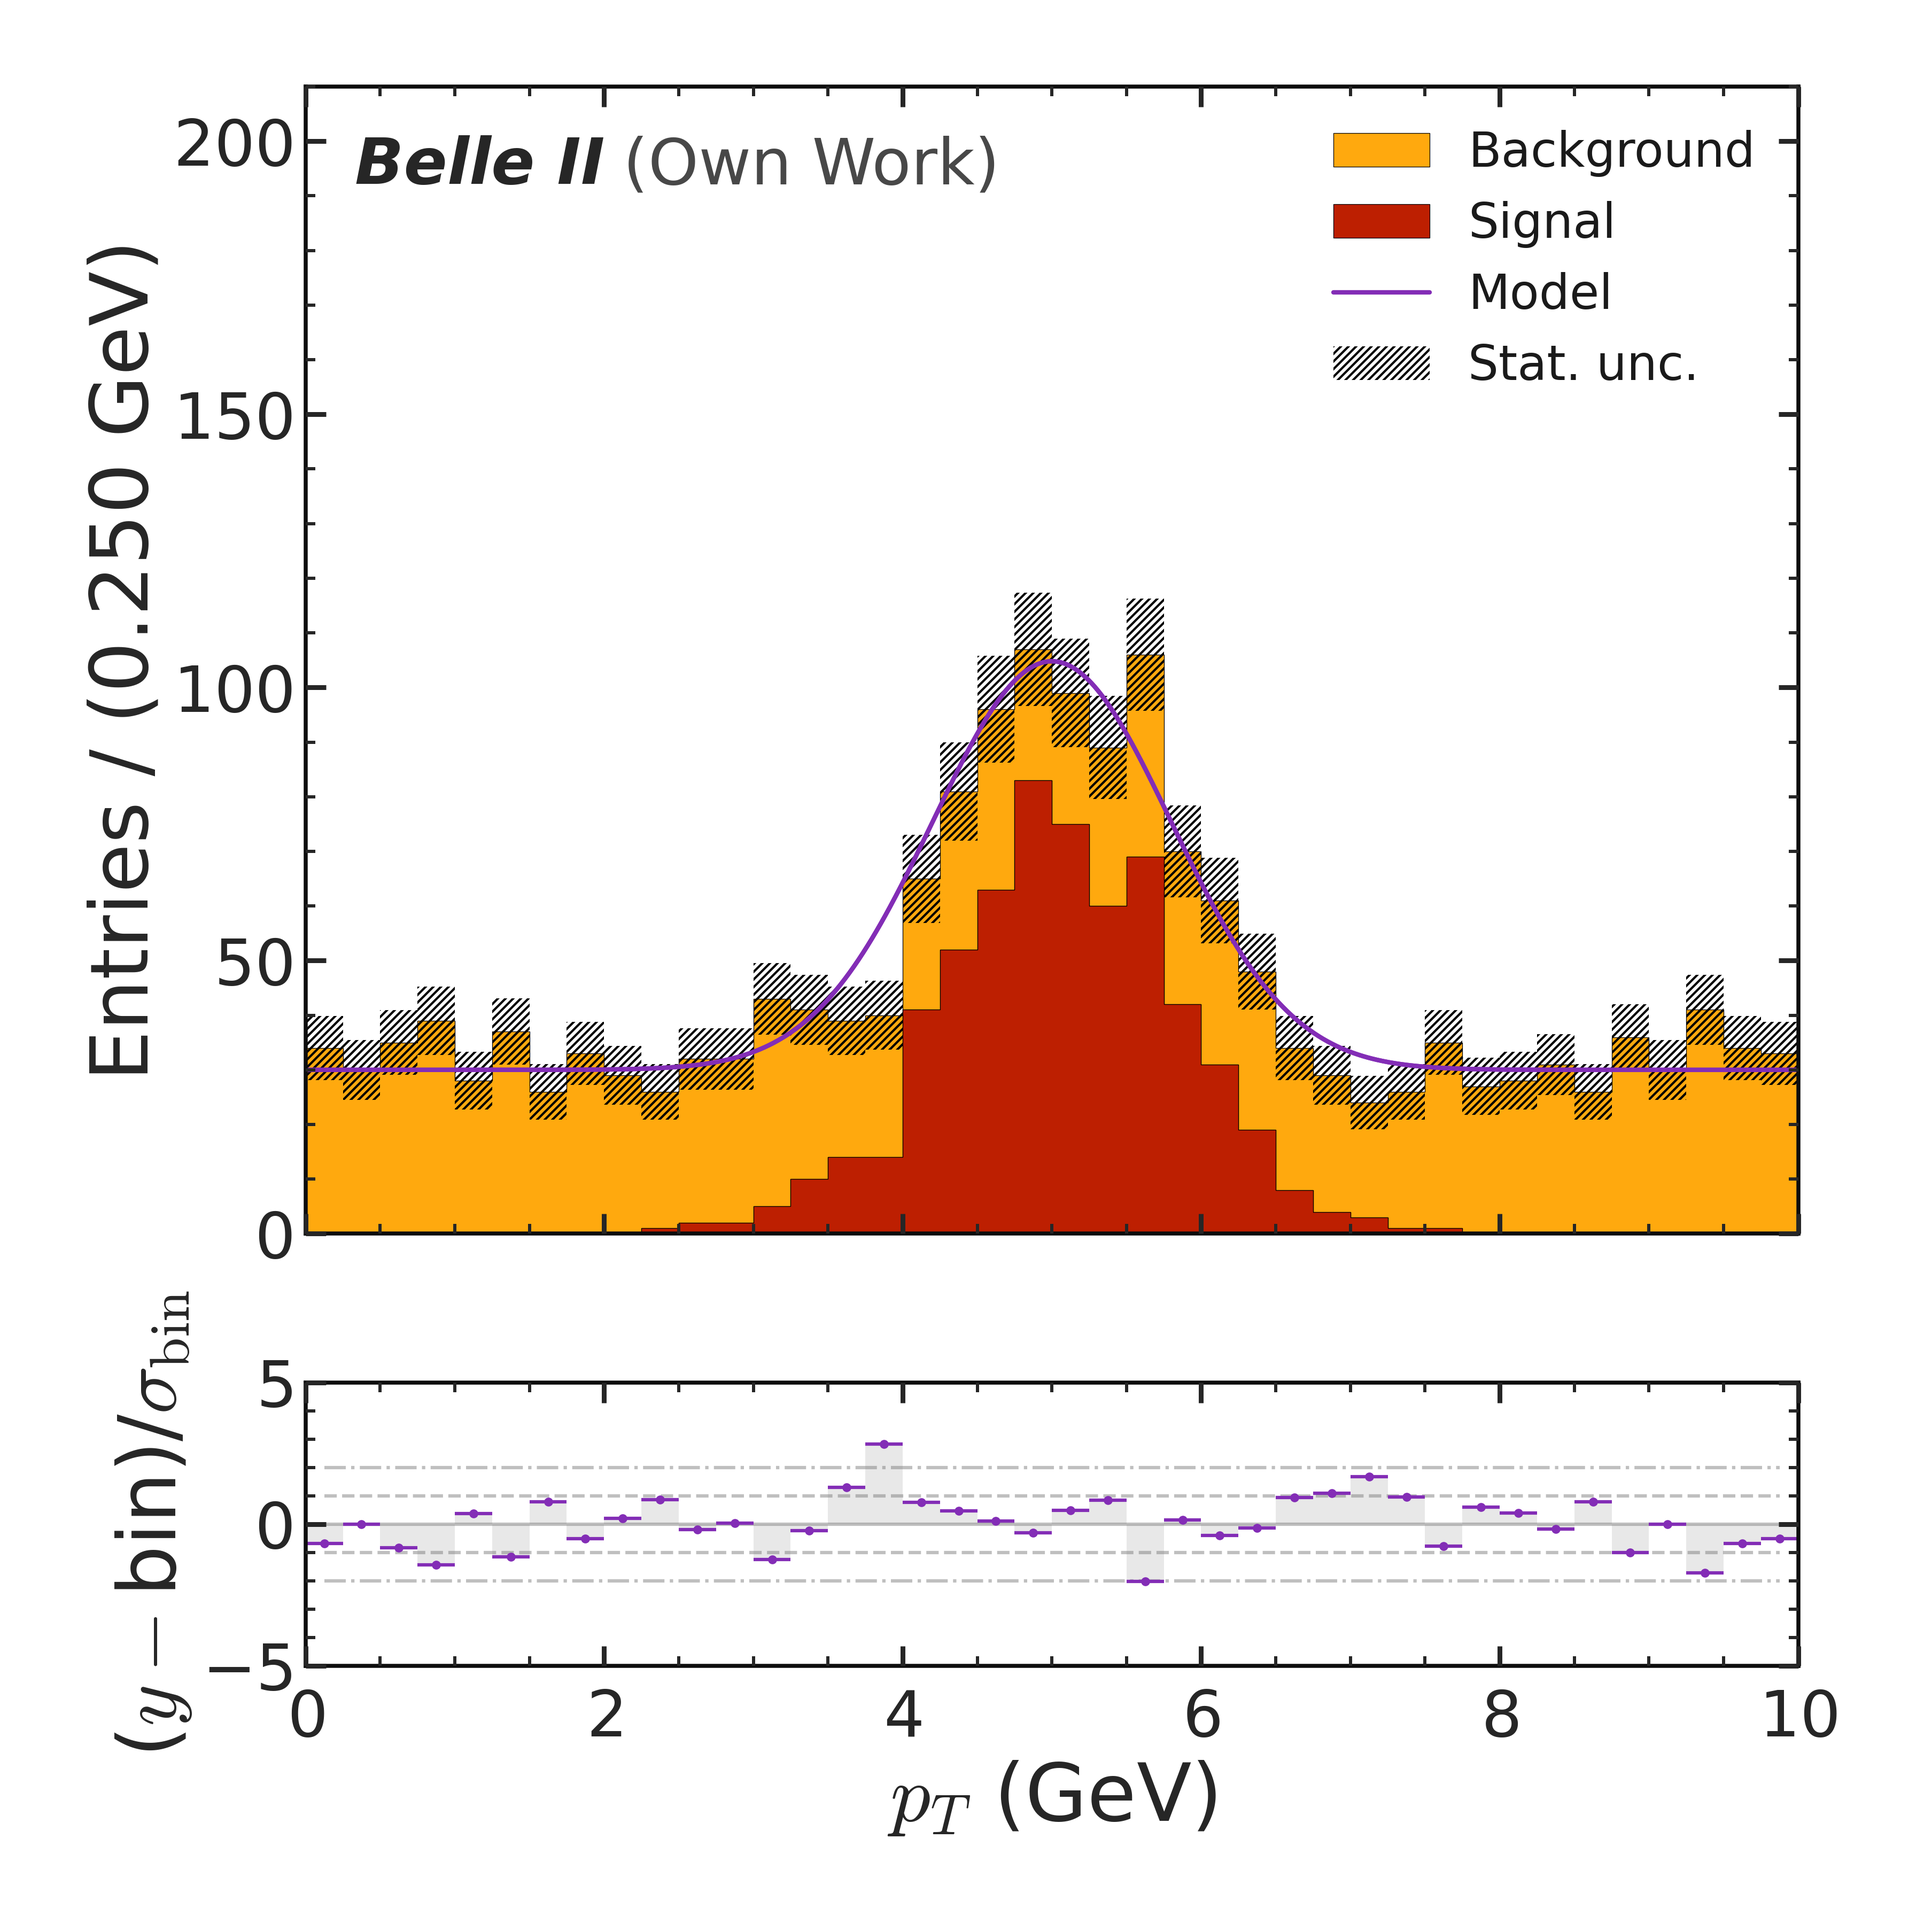
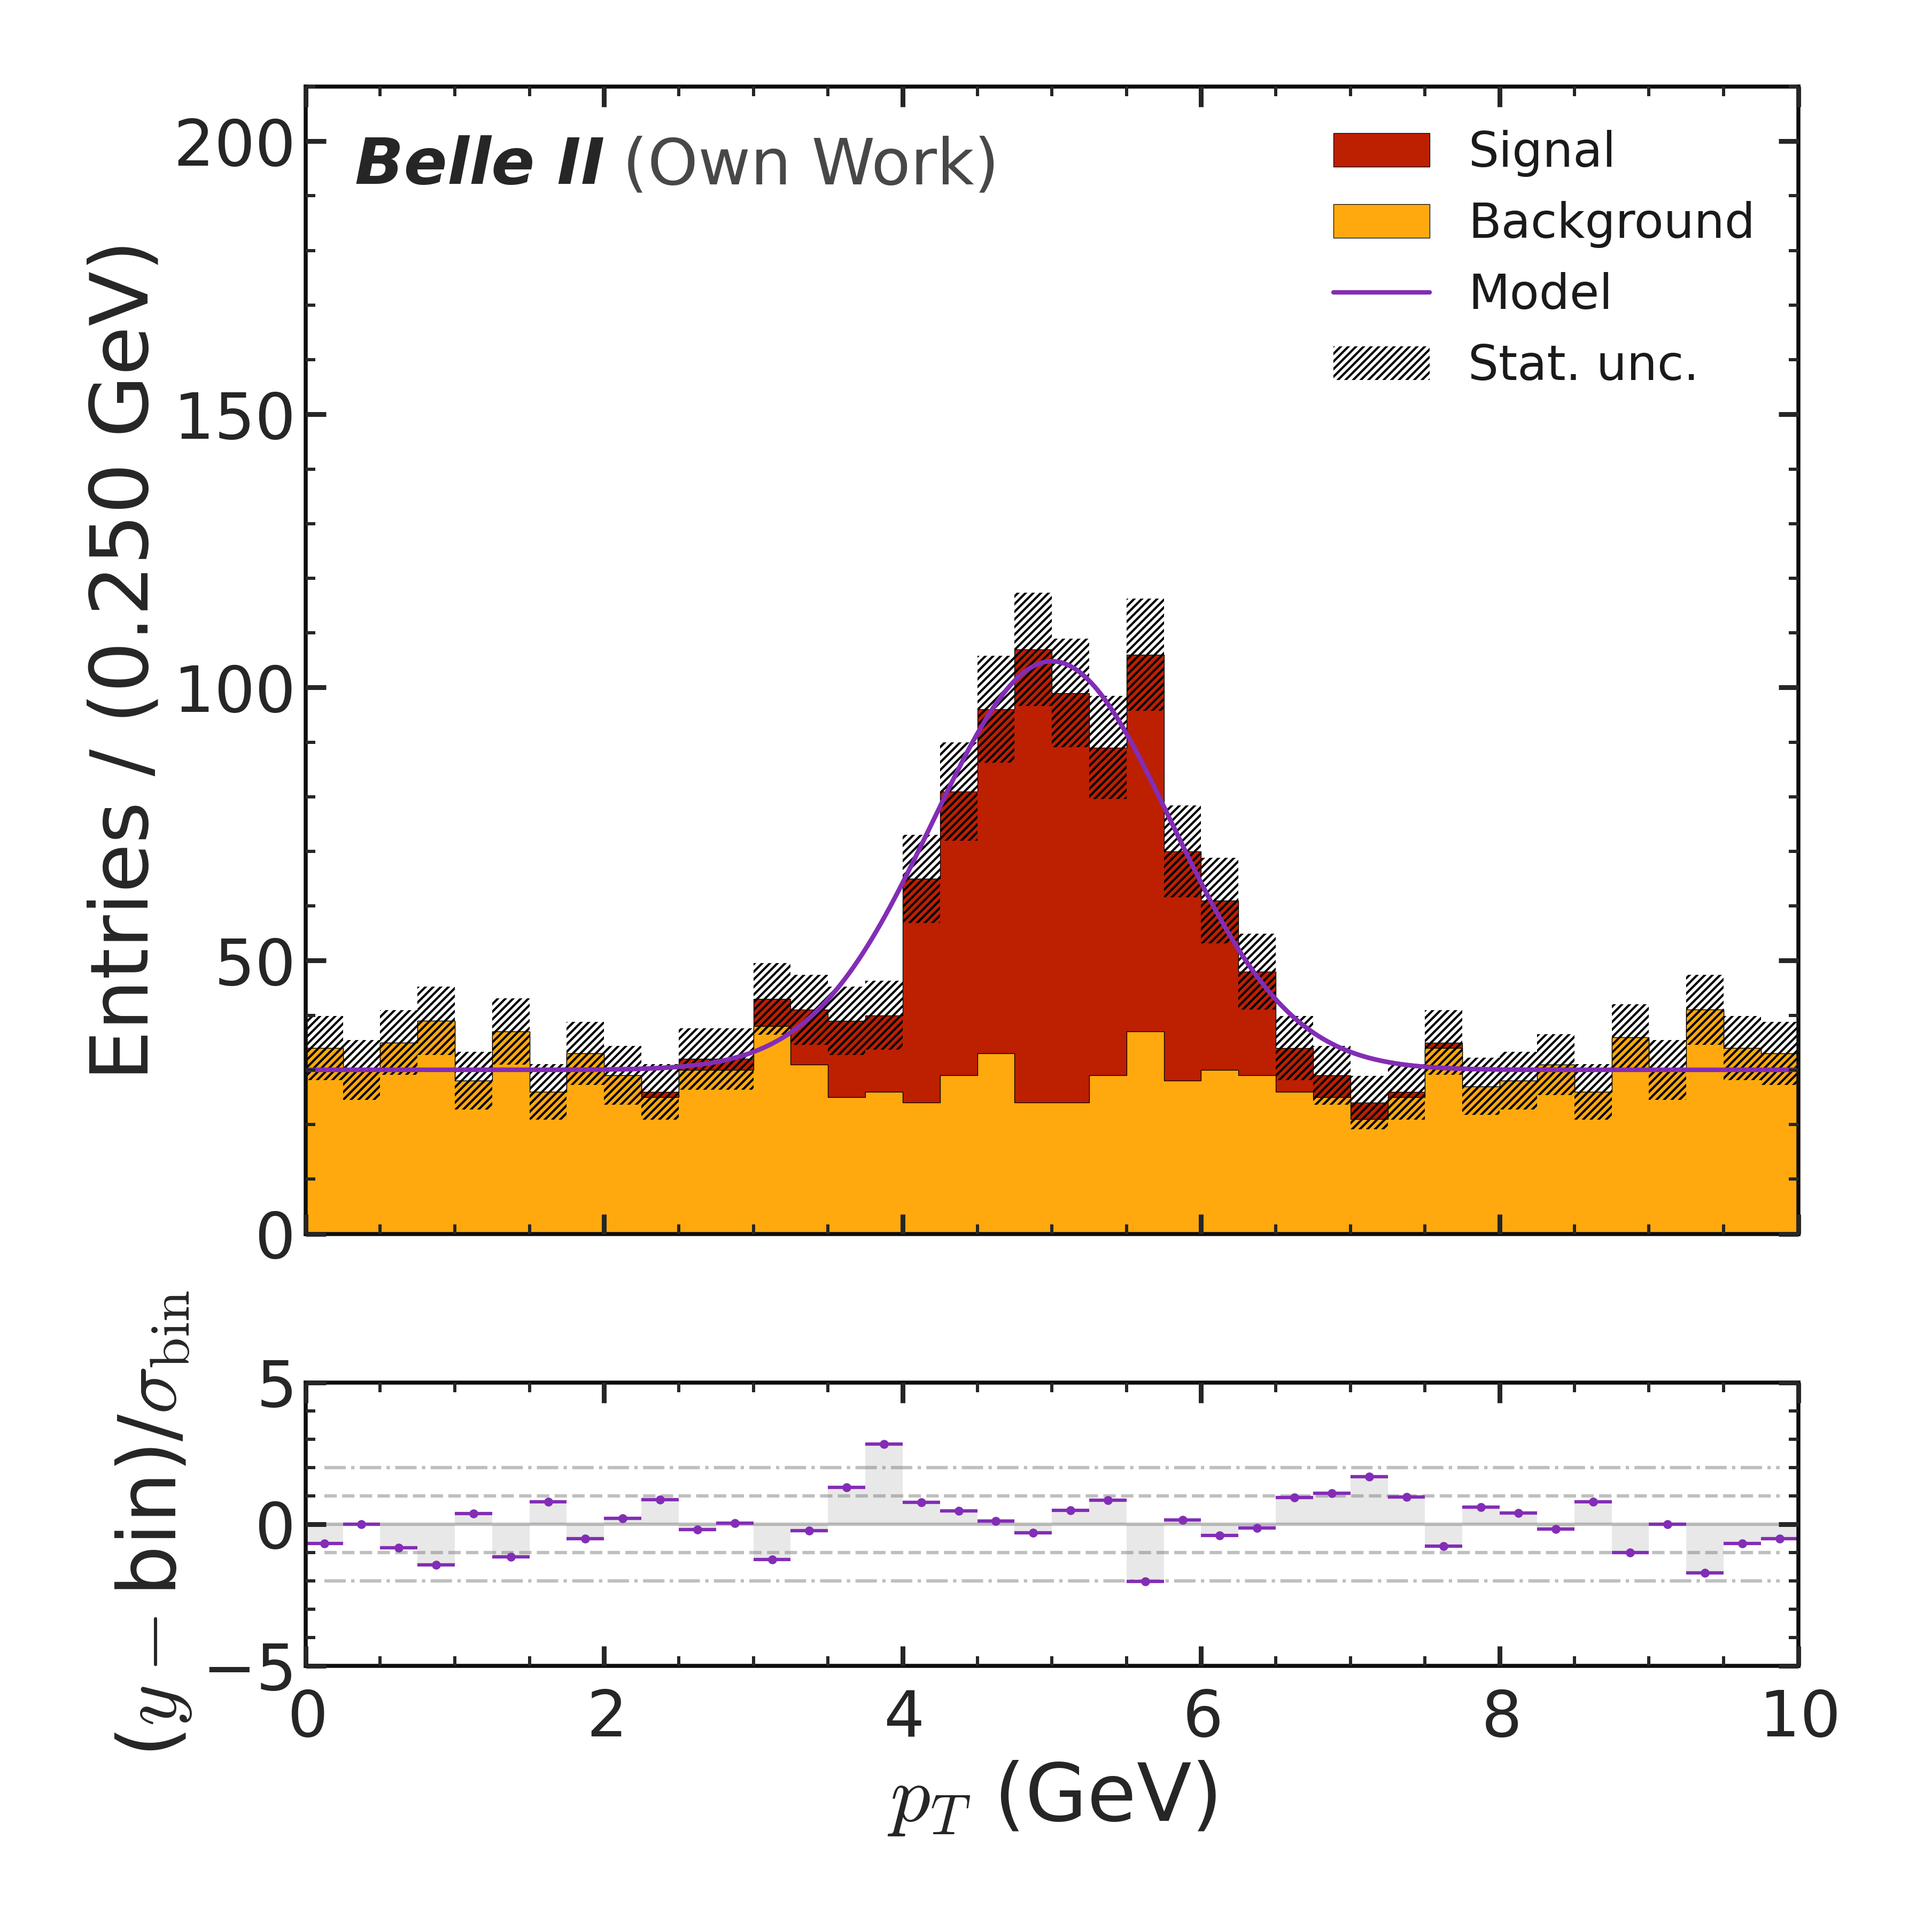
Fix workflow_demo.py: signal was stacking below background
The signal entry was added as a plain type="entry" (default), so
plot_stacked() stacked it in insertion order -- and it was added
before background, putting it at the *bottom* of the stack. PR #11's
"signal always closes the stack on top" guarantee only applies to
entries marked type="signal"; this one never used it.

Switch to type="signal" (matching examples/histogram_with_pull.py's
convention) and drop the now-redundant explicit color= on it, since a
lone signal entry is always forced to the palette's reserved red
regardless of what color= says.

Changed region(s): [[0.3422, 0.3422, 0.7467, 0.6533], [0.7778, 0.0622, 0.9022, 0.1244], [0.6844, 0.0622, 0.7467, 0.1244]]

diff --git a/examples/workflow_demo.py b/examples/workflow_demo.py
@@ -67,7 +67,6 @@ def _build_stacked_pull_plotter(data: dict[str, np.ndarray]) -> HistogramPlotter
 
     hist = Histogram()
     hist.binning = np.linspace(X_MIN, X_MAX, 41)
-    hist.add_entry(HistogramEntry(name="signal", latex_name="Signal", array=data["signal"], color=palette.signal))
     hist.add_entry(
         # background[1] (not [0]): amber for Petroff, blue for KIT -- both contrast
         # cleanly against the reserved signal red. background[0] is KIT's green,
@@ -76,6 +75,11 @@ def _build_stacked_pull_plotter(data: dict[str, np.ndarray]) -> HistogramPlotter
             name="background", latex_name="Background", array=data["background"], color=palette.background[1]
         )
     )
+    # type="signal" routes this into Histogram.signal instead of Histogram.entries, so
+    # plot_stacked() always closes the stack with it on top (at its true yield, in the
+    # palette's reserved signal red) regardless of add_entry() call order -- unlike a
+    # plain entry, whose stack position is just insertion order.
+    hist.add_entry(HistogramEntry(name="signal", latex_name="Signal", array=data["signal"], type="signal"))
 
     histplot = HistogramPlot(hist)
     histplot.stacked = True
